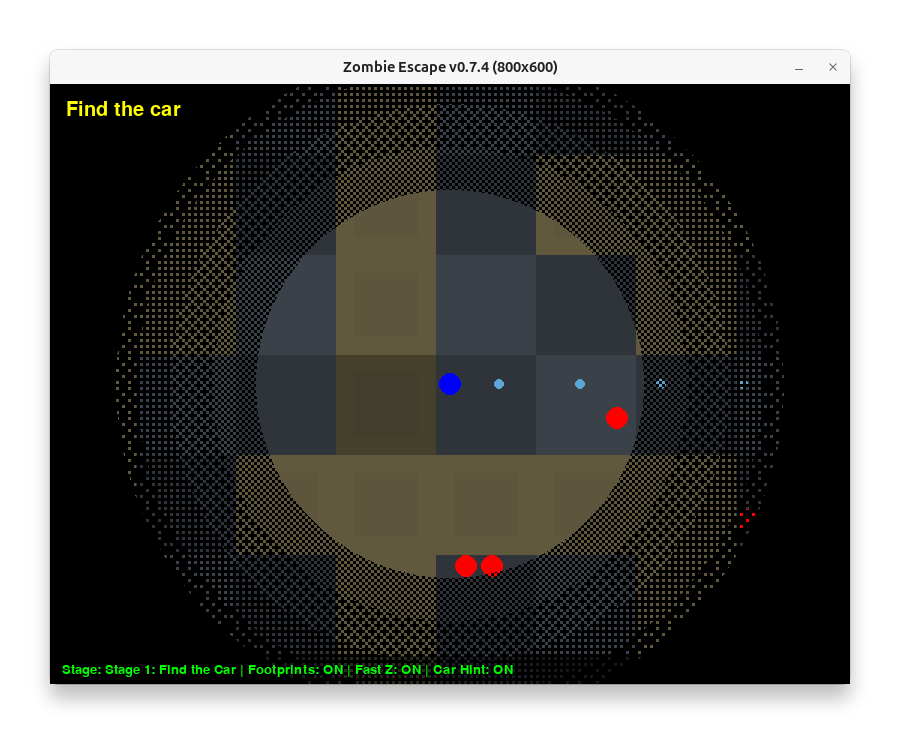
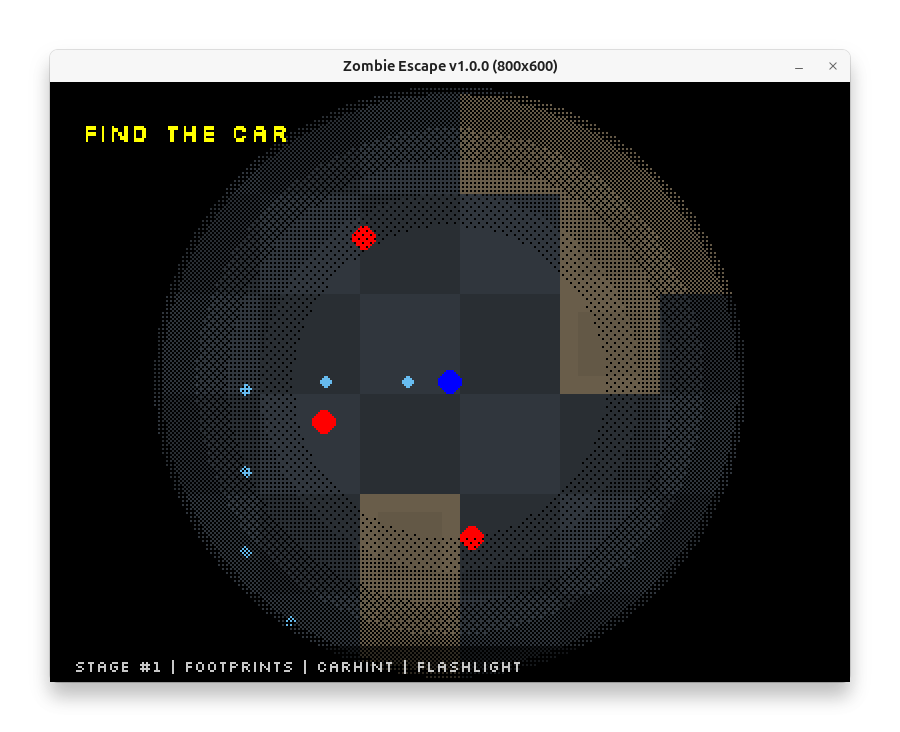
docs: update screenshots

Changed region(s): [[0.0622, 0.0601, 0.8711, 0.9317], [0.8711, 0.0902, 0.9333, 0.1202], [0.5289, 0.5109, 0.56, 0.541]]

diff --git a/README-ja_JP.md b/README-ja_JP.md
@@ -16,8 +16,9 @@
 
 このゲームは、ゾンビが徘徊する広大な建物の中から、車を見つけて脱出することを目指す、シンプルな2Dトップダウンビューのアクションゲームです。プレイヤーはゾンビから逃げ回り、壁を破壊しながら活路を見つけ出し、車に乗って建物の外へ脱出します。
 
-<img src="https://raw.githubusercontent.com/tos-kamiya/zombie-escape/main/imgs/screenshot1.png" width="400">
+<img src="https://raw.githubusercontent.com/tos-kamiya/zombie-escape/main/imgs/screenshot1-ja.png" width="400">
 <img src="https://raw.githubusercontent.com/tos-kamiya/zombie-escape/main/imgs/screenshot2.png" width="400">
+<img src="https://raw.githubusercontent.com/tos-kamiya/zombie-escape/main/imgs/screenshot3.png" width="400">
 
 ## 操作方法
 

diff --git a/README.md b/README.md
@@ -18,6 +18,7 @@ This game is a simple 2D top-down action game where the player aims to escape by
 
 <img src="https://raw.githubusercontent.com/tos-kamiya/zombie-escape/main/imgs/screenshot1.png" width="400">
 <img src="https://raw.githubusercontent.com/tos-kamiya/zombie-escape/main/imgs/screenshot2.png" width="400">
+<img src="https://raw.githubusercontent.com/tos-kamiya/zombie-escape/main/imgs/screenshot3.png" width="400">
 
 ## Controls
 
